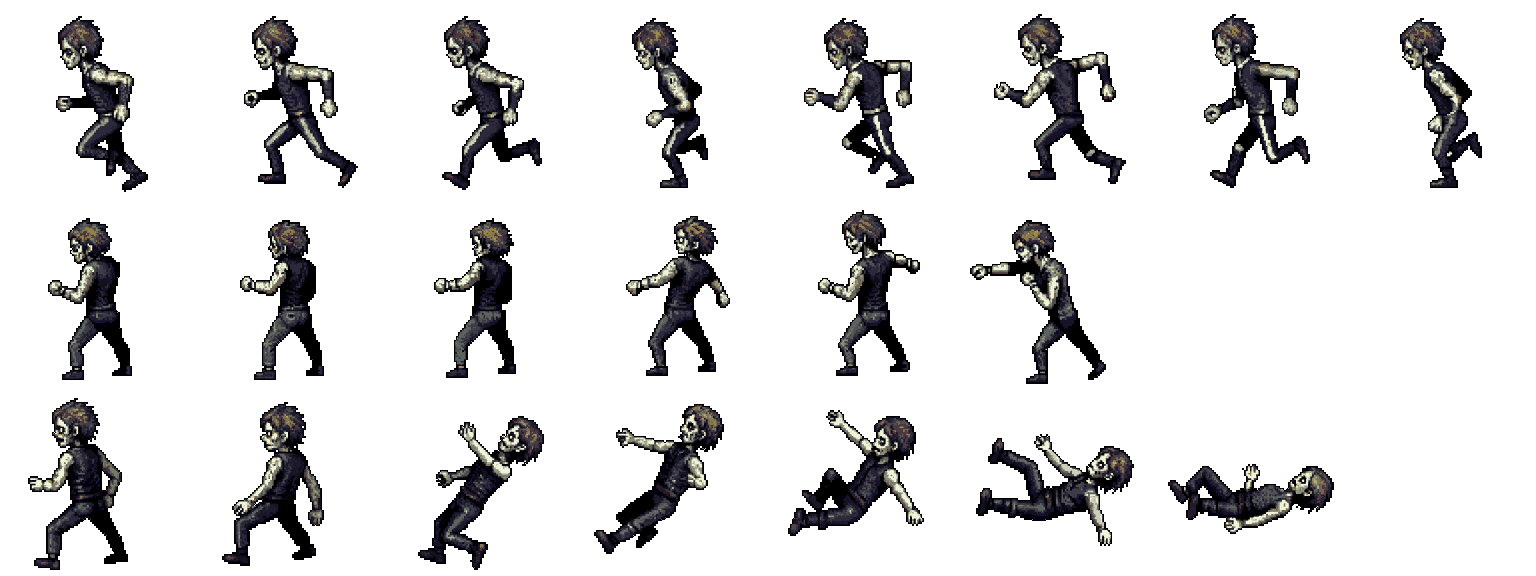
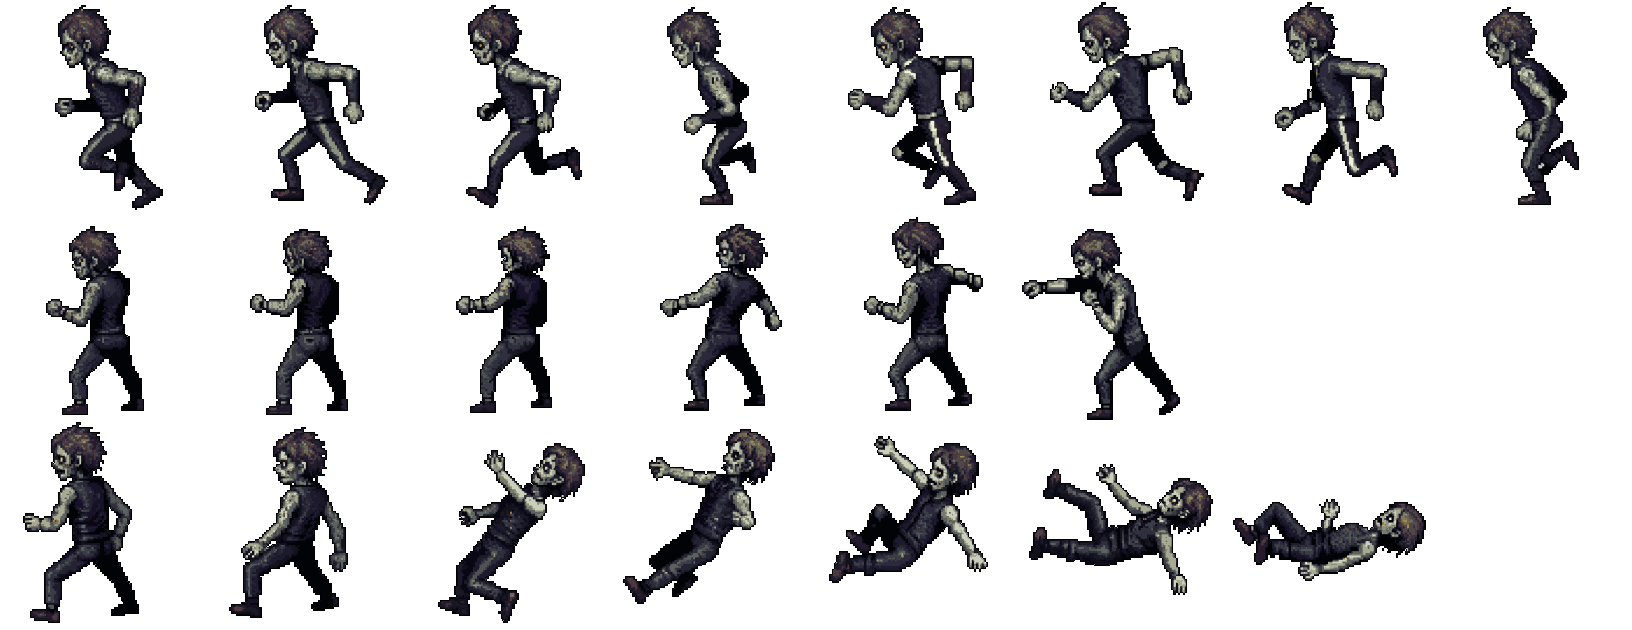
Düşmanlar: ekranda aynı piksel yoğunluğu (olcek 0.5)
13 düşman sayfası F = 2 * olcek / 0.5 oranında yeniden kuruldu; ekrandaki boy,
ayak ve merkez noktası değişmedi (0.5 px içinde). Büyüyen sayfalarda detay
birim.py'nin ham 1024 px SDXL çizimlerinden (aynı kutudan BOX küçültme, yeni
GPU işi yok), palet ve silüet mevcut sayfadan, ölüm karelerindeki solma korunur.
Ham kaynağı uymayan birimler (tirmanici, patlayan, okcuiskelet) ve küçülenler
(yarasa, kurt) mevcut sayfadan yumuşak yeniden örnekleme. Ortak boş kenar
kırpıldı, sayfalar 4096 px içinde (gerekirse daha az sütun; kare numaraları
satır*sütun+i olduğu için kod değişmedi). Eskiler assets/gorsel/eski_olcek/.

diff --git a/motor-deneme-5b8e2f/uretim/betikler/olcek.py b/motor-deneme-5b8e2f/uretim/betikler/olcek.py
@@ -1,0 +1,231 @@
+"""Same on-screen pixel size for every enemy (target olcek 0.5).
+
+Each enemy sheet is drawn at some density and scaled on screen by kareler.json olcek (0.42-0.93),
+so one art pixel shows as 0.42-0.93 screen px. Here every sheet is rebuilt at
+F = 2 * olcek / 0.5 times the original 1x frame, so with olcek 0.5 the on-screen size stays the same.
+Detail comes from the raw 1024 px SDXL redraws birim.py already made (ComfyUI/output/son-kale-v2/
+<unit>/ham), BOX-downscaled from the same box -> real new pixels, no blocky upscale. Colours are
+quantized to the current sheet's palette, the silhouette is the current sheet's (smoothly resized),
+baked die fades are kept. Wide sheets are re-flowed into fewer columns (Phaser numbers frames in
+reading order, so row * columns + i still works).
+
+  python olcek.py deneme zombi        -> D:/AI/son-kale-cikti/olcek/<unit>.png comparisons
+  python olcek.py tam [units...]      -> repo sheets + kareler.json (old ones kept in assets/gorsel/eski_olcek/)
+"""
+import glob
+import json
+import os
+import shutil
+import sys
+
+import numpy as np
+from PIL import Image
+from scipy import ndimage
+
+sys.path.insert(0, os.path.dirname(os.path.abspath(__file__)))
+import birim as B  # noqa: E402
+
+G = f"{B.REPO}/assets/gorsel"
+CIKTI = "D:/AI/son-kale-cikti/olcek"
+HEDEF = 0.5
+MAKS = 4096
+DUSMAN = ["zombi", "kosucu", "dev", "iskelet", "yarasa", "kalkanli", "tirmanici", "patlayan", "sifaci",
+          "okcuiskelet", "kurt", "kalkanlidev", "patron"]
+ETIKET = {"kurt": ["rig3_s22", "v1_s22"], "okcuiskelet": []}   # okcuiskelet: its rig sheet is gone
+RIG = {"kurt": "D:/AI/araclar/rig/kurt.png", "okcuiskelet": "D:/AI/araclar/rig/okcuiskelet.png"}
+
+
+def mevcut(unit):
+    """The sheet as it was before this script (kept in eski_olcek/ after the first run)."""
+    if os.path.exists(f"{G}/eski_olcek/{unit}.png"):
+        J = json.load(open(f"{G}/eski_olcek/kareler.json", encoding="utf-8"))
+        return J["birimler"][unit], Image.open(f"{G}/eski_olcek/{unit}.png").convert("RGBA")
+    J = json.load(open(f"{G}/kareler.json", encoding="utf-8"))
+    return J["birimler"][unit], Image.open(f"{G}/{unit}.png").convert("RGBA")
+
+
+def kare(sheet, K, idx, sutun):
+    fw, fh = K["fw"], K["fh"]
+    r, c = divmod(idx, sutun)
+    return sheet.crop((c * fw, r * fh, (c + 1) * fw, (r + 1) * fh))
+
+
+def ham(unit, etiket, idx):
+    d = sorted(glob.glob(f"{B.OUT}/{unit}/ham/{etiket}_{idx:02d}_*.png"))
+    return d[-1] if d else None
+
+
+YER = {}
+
+
+def hizala(unit, idx, row, col, g, cur, L):
+    """Placement of the frame inside the raw 1024 image: the bbox placement or the old fixed one
+    (zombi was drawn with it), plus a small search; chosen once per unit on its first frame."""
+    if unit in YER:
+        mod, dx, dy = YER[unit]
+    else:
+        ca = np.asarray(cur)
+        m = ca[..., 3] > 200
+        en = None
+        for mod in ("bbox", "eski"):
+            if mod == "eski":
+                B.ESKI_YERLESIM.add(unit)
+            else:
+                B.ESKI_YERLESIM.discard(unit)
+            _, (ox, oy, k) = B.make_input(unit, idx, row, col)
+            for dy in range(-12, 13, 2):
+                for dx in range(-12, 13, 2):
+                    b = np.asarray(g.crop((ox + dx, oy + dy, ox + dx + L["fw"] * k, oy + dy + L["fh"] * k))
+                                   .resize(cur.size, Image.Resampling.BOX)).astype(int)
+                    h = np.abs(b[m] - ca[m][:, :3]).mean()
+                    if en is None or h < en[0]:
+                        en = (h, mod, dx, dy)
+        _, mod, dx, dy = en
+        YER[unit] = (mod, dx, dy)
+        print(unit, "yerlesim", mod, dx, dy, round(en[0], 1), flush=True)
+    if mod == "eski":
+        B.ESKI_YERLESIM.add(unit)
+    else:
+        B.ESKI_YERLESIM.discard(unit)
+    _, (ox, oy, k) = B.make_input(unit, idx, row, col)
+    return ox + dx, oy + dy, k
+
+
+def palet_of(sheet):
+    a = np.asarray(sheet)
+    px = a[a[..., 3] > 200][:, :3]
+    renk = np.unique(px, axis=0)
+    pal = Image.new("P", (1, 1))
+    flat = renk[:256].reshape(-1).tolist()
+    pal.putpalette(flat + flat[:3] * (256 - len(renk[:256])))
+    return pal, len(renk)
+
+
+def kur(unit, etiket=None, kaydet=False):
+    K, sheet = mevcut(unit)
+    if unit in RIG and os.path.exists(RIG[unit]):
+        B.KAYNAK[unit] = RIG[unit]
+    L = B.layout(unit)                       # 1x original layout (frames, fw, fh)
+    s = K["olcek"] / HEDEF                   # resample factor of the current 2x sheet
+    F = (K["fw"] / L["fw"]) * s              # new size relative to the 1x frame
+    nfw, nfh = round(L["fw"] * F), round(L["fh"] * F)
+    sutun0 = max(r["frames"] for r in K["rows"].values())
+    sutun = min(sutun0, MAKS // nfw)
+    satir_say = max(r["row"] for r in K["rows"].values()) + 1
+    toplam = satir_say * sutun0
+    pal, nrenk = palet_of(sheet)
+    etiketler = [etiket] if etiket else ETIKET.get(unit, ["v1_s22"])
+    hata = []
+    yedek_say = [0]
+    KARE = {}
+    for (idx, row, col, name) in B.frames_of(unit):
+        L_idx = row * sutun0 + col
+        cur = kare(sheet, K, L_idx, sutun0)            # current 2x frame (layout of the game sheet)
+        p = None
+        for e in (etiketler if s > 1.0 else []):      # shrinking: the current sheet has all the detail
+            p = ham(unit, e, idx)
+            if p:
+                break
+        if p:
+            g = Image.open(p).convert("RGB")
+            ox, oy, k = hizala(unit, idx, row, col, g, cur, L)
+            box = g.crop((ox, oy, ox + L["fw"] * k, oy + L["fh"] * k)).resize((nfw, nfh), Image.Resampling.BOX)
+            cur_a0 = np.asarray(cur)
+            m0 = cur_a0[..., 3] > 0
+            chk0 = np.asarray(box.resize(cur.size, Image.Resampling.BOX)).astype(int)
+            h0 = np.abs(chk0[m0] - cur_a0[m0][:, :3]).mean() if m0.any() else 0
+            if h0 > 32:                          # this frame was not made from that raw drawing
+                p = None
+                yedek_say[0] += 1
+        if not p:                                      # no raw redraw: smooth resample of the sheet
+            box = Image.fromarray(np.asarray(cur)[..., :3]).resize((nfw, nfh), Image.Resampling.BOX if s < 1 else Image.Resampling.LANCZOS)
+        # silhouette and fades from the current frame
+        ca = np.asarray(cur.getchannel("A").resize((nfw, nfh), Image.Resampling.BOX))
+        tam = ca >= 128
+        rgb = np.asarray(box.quantize(palette=pal, dither=Image.Dither.NONE).convert("RGB")).copy()
+        # outline: where the current frame has a dark silhouette edge, keep it dark
+        cur_a = np.asarray(cur)
+        kenar_eski = (cur_a[..., 3] > 200) & ~ndimage.binary_erosion(cur_a[..., 3] > 200)
+        koyu_kenar = kenar_eski.any() and (cur_a[kenar_eski][:, :3].astype(int).sum(1) < 150).mean() > 0.6
+        if koyu_kenar:
+            e = tam & ~ndimage.binary_erosion(tam)
+            koyu = cur_a[kenar_eski][:, :3].astype(int)
+            rgb[e] = np.median(koyu[koyu.sum(1) < 150], 0).astype(np.uint8)
+        oa = cur_a[..., 3]
+        seviye = int(np.median(oa[oa > 0])) if (oa > 0).any() else 255
+        alfa = np.where(tam, min(seviye, 255) if seviye < 250 else 255, 0).astype(np.uint8)
+        fr = Image.fromarray(np.dstack([rgb, alfa]), "RGBA")
+        KARE[L_idx] = fr
+        if p:
+            # how close the raw source is to the current art (picks the right tag for rig units)
+            chk = np.asarray(box.resize(cur.size, Image.Resampling.BOX)).astype(int)
+            m = cur_a[..., 3] > 200
+            hata.append(np.abs(chk[m] - cur_a[m][:, :3]).mean() if m.any() else 0)
+    if yedek_say[0] > 0.3 * max(1, len(B.frames_of(unit))) and not etiket:
+        # many frames were made from another recipe: one source for the whole unit (no style flicker)
+        ETIKET[unit] = []
+        YER.pop(unit, None)
+        return kur(unit, etiket=None, kaydet=kaydet)
+    # trim the empty margin shared by all frames (+2 px), so big sheets stay within 4096 px
+    kutular = [f.getchannel("A").getbbox() for f in KARE.values()]
+    kutular = [k for k in kutular if k]
+    x0 = max(0, min(k[0] for k in kutular) - 2); y0 = max(0, min(k[1] for k in kutular) - 2)
+    x1 = min(nfw, max(k[2] for k in kutular) + 2); y1 = min(nfh, max(k[3] for k in kutular) + 2)
+    footY, centerX = round(K["footY"] * s) - y0, round(K["centerX"] * s) - x0
+    nfw, nfh = x1 - x0, y1 - y0
+    sutun = sutun0
+    while sutun > 1 and (sutun * nfw > MAKS or -(-toplam // sutun) * nfh > MAKS):
+        if sutun * nfw <= MAKS and -(-toplam // (sutun + 1)) * nfh <= MAKS and (sutun + 1) * nfw <= MAKS:
+            sutun += 1; break
+        sutun -= 1
+    if -(-toplam // sutun) * nfh > MAKS:          # too tall: use the widest layout that fits
+        sutun = MAKS // nfw
+    out = Image.new("RGBA", (sutun * nfw, -(-toplam // sutun) * nfh), (0, 0, 0, 0))
+    for L_idx, fr in KARE.items():
+        r, c = divmod(L_idx, sutun)
+        out.paste(fr.crop((x0, y0, x1, y1)), (c * nfw, r * nfh))
+    yeni = dict(K)
+    yeni.update(fw=nfw, fh=nfh, footY=footY, centerX=centerX, olcek=HEDEF)
+    bilgi = dict(unit=unit, s=round(s, 3), fw=nfw, fh=nfh, boyut=out.size, sutun=sutun, renk=nrenk, hata=round(float(np.mean(hata)) if hata else -1, 1),
+                 ham=len(hata), yedek=yedek_say[0], etiket=etiketler)
+    return out, yeni, bilgi, sheet, K
+
+
+def karsilastir(unit, out, yeni, sheet, K, yol):
+    """Old vs new at game size (both scaled by their olcek), 3 frames, x2 for viewing."""
+    sutun0 = max(r["frames"] for r in K["rows"].values())
+    sutun = out.width // yeni["fw"]
+    secim = [0, K["rows"]["attack"]["row"] * sutun0 + 2, K["rows"]["die"]["row"] * sutun0 + 3]
+    parcalar = []
+    for L_idx in secim:
+        a = kare(sheet, K, L_idx, sutun0)
+        a = a.resize((round(a.width * K["olcek"]), round(a.height * K["olcek"])), Image.Resampling.NEAREST)
+        r, c = divmod(L_idx, sutun)
+        b = out.crop((c * yeni["fw"], r * yeni["fh"], (c + 1) * yeni["fw"], (r + 1) * yeni["fh"]))
+        b = b.resize((round(b.width * HEDEF), round(b.height * HEDEF)), Image.Resampling.NEAREST)
+        parcalar += [a, b]
+    W = sum(p.width + 6 for p in parcalar); H = max(p.height for p in parcalar)
+    S = Image.new("RGBA", (W, H), (150, 140, 120, 255)); x = 0
+    for p in parcalar:
+        S.alpha_composite(p, (x, H - p.height)); x += p.width + 6
+    S.resize((S.width * 3, S.height * 3), Image.Resampling.NEAREST).save(yol)
+
+
+if __name__ == "__main__":
+    mod, units = sys.argv[1], sys.argv[2:] or DUSMAN
+    os.makedirs(CIKTI, exist_ok=True)
+    J = json.load(open(f"{G}/kareler.json", encoding="utf-8"))
+    for u in units:
+        out, yeni, bilgi, sheet, K = kur(u)
+        print(bilgi, flush=True)
+        karsilastir(u, out, yeni, sheet, K, f"{CIKTI}/{u}.png")
+        if mod == "tam":
+            os.makedirs(f"{G}/eski_olcek", exist_ok=True)
+            if not os.path.exists(f"{G}/eski_olcek/{u}.png"):
+                shutil.copy(f"{G}/{u}.png", f"{G}/eski_olcek/{u}.png")
+            out.save(f"{G}/{u}.png")
+            J["birimler"][u] = yeni
+    if mod == "tam":
+        if not os.path.exists(f"{G}/eski_olcek/kareler.json"):
+            shutil.copy(f"{G}/kareler.json", f"{G}/eski_olcek/kareler.json")
+        json.dump(J, open(f"{G}/kareler.json", "w", encoding="utf-8"), ensure_ascii=False)
